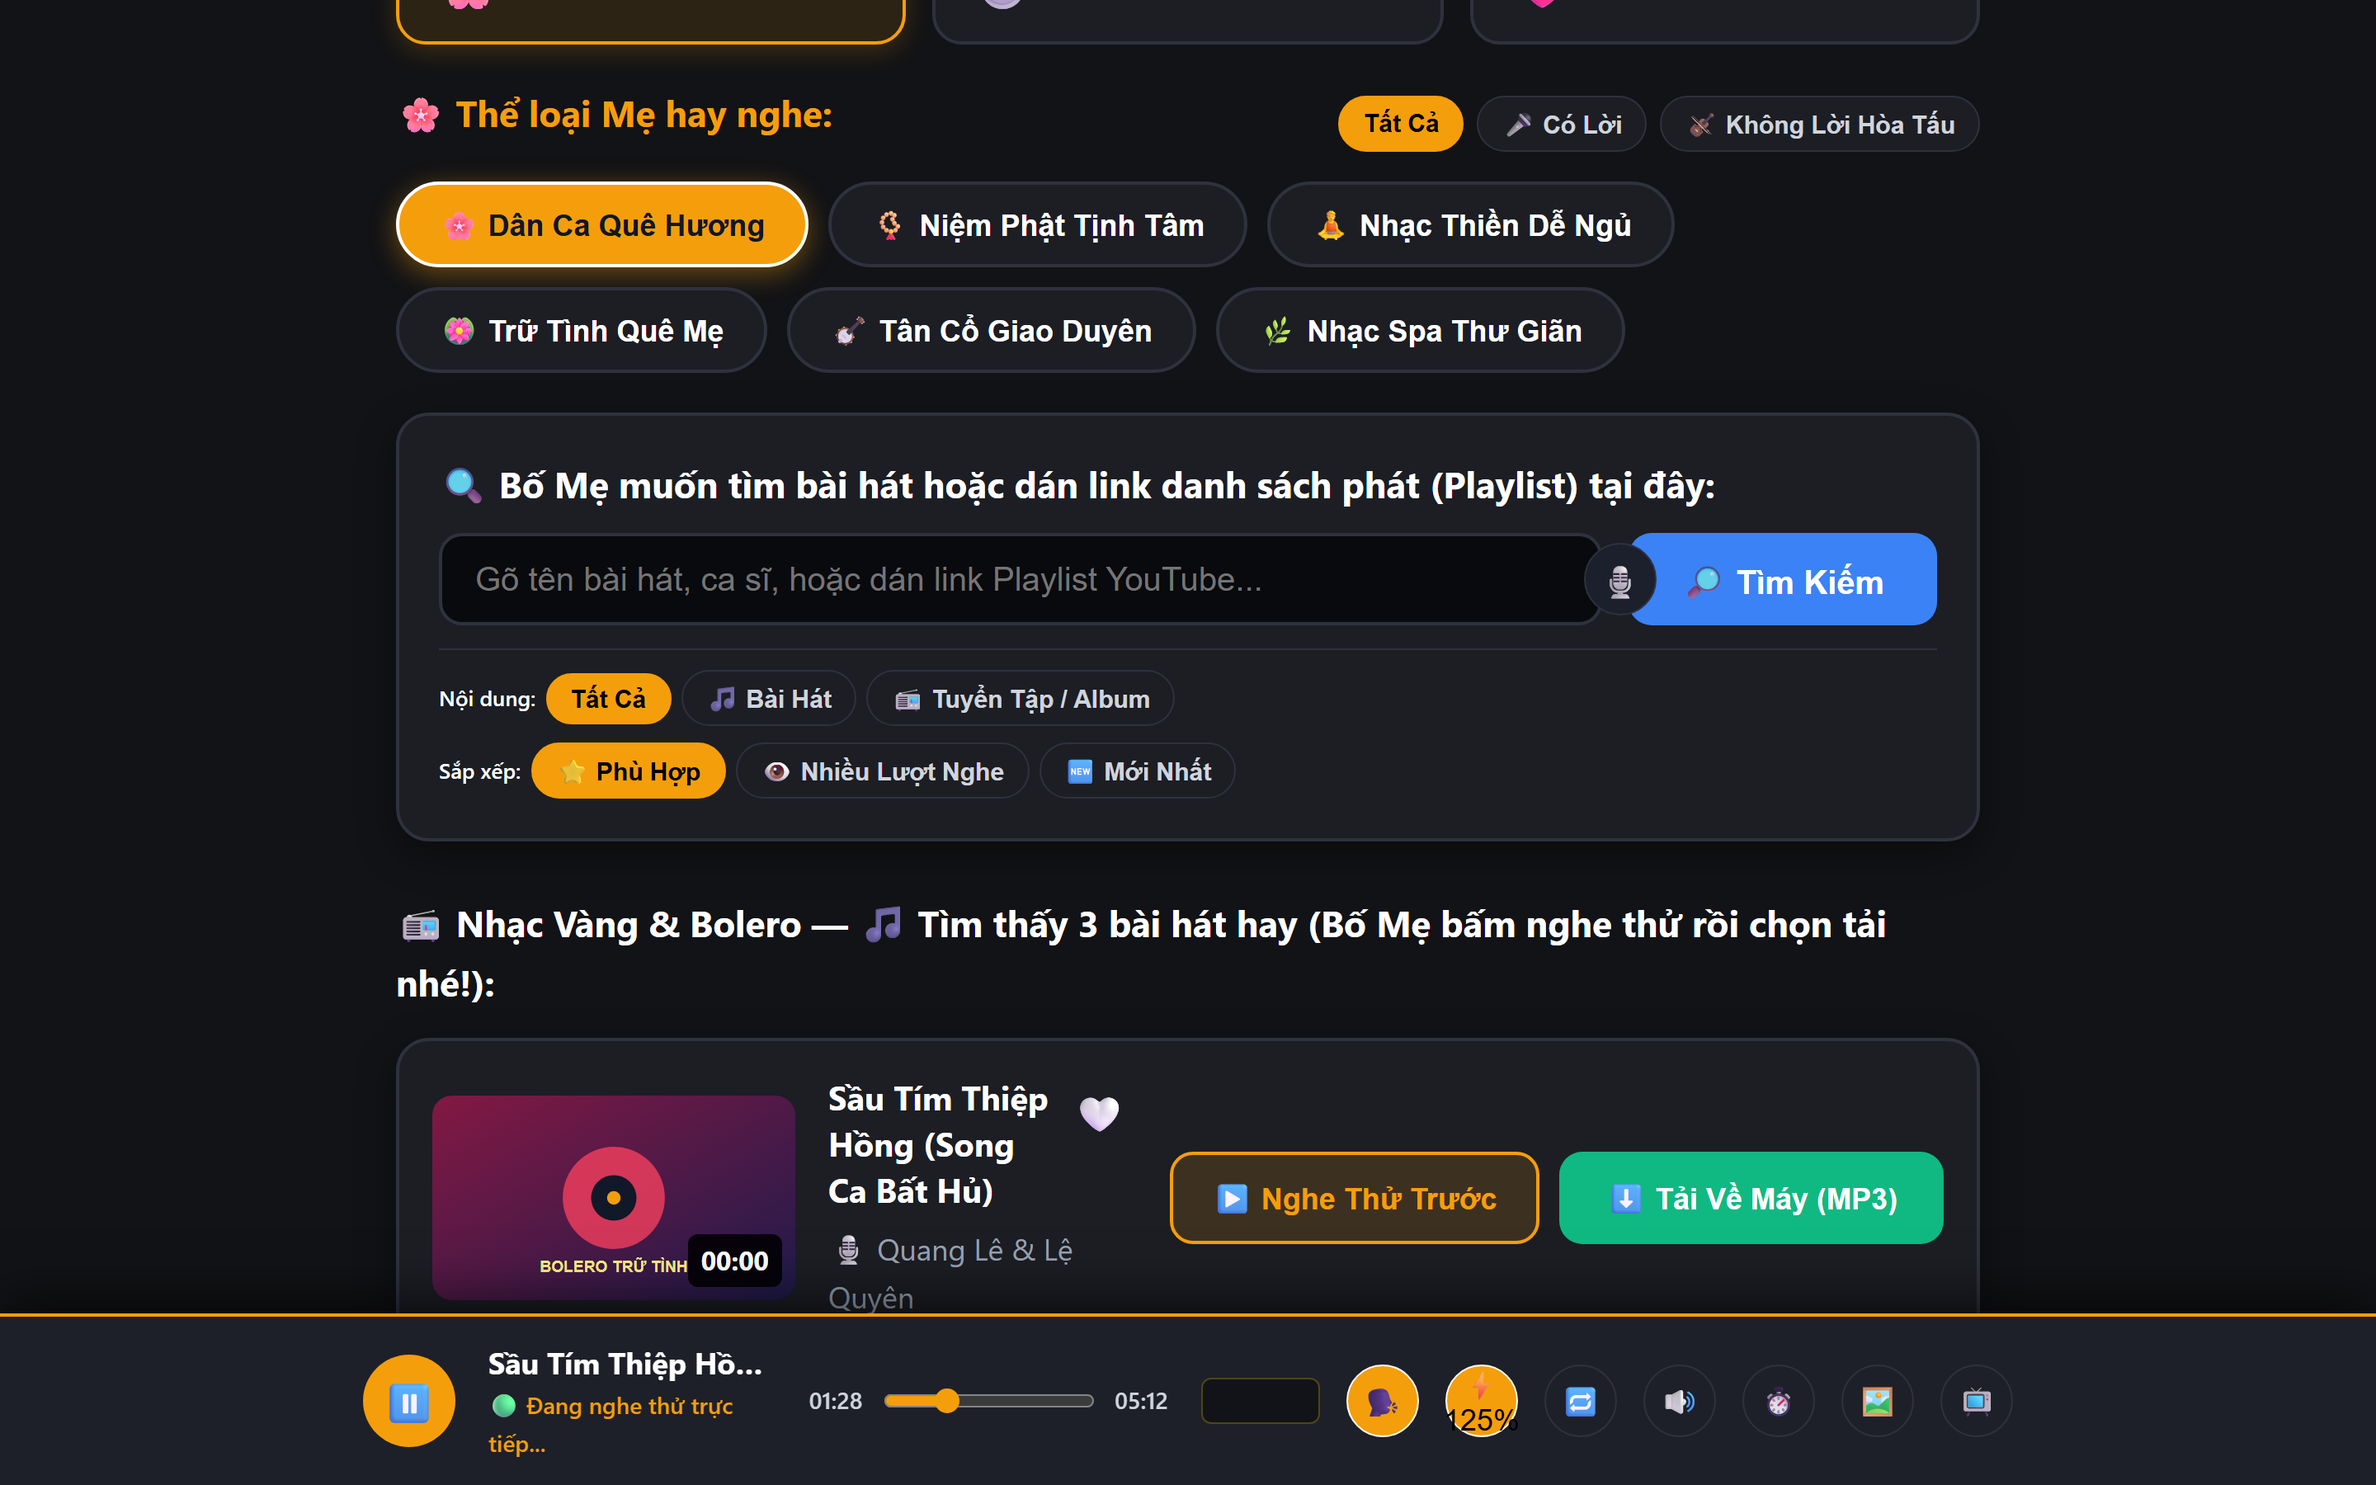
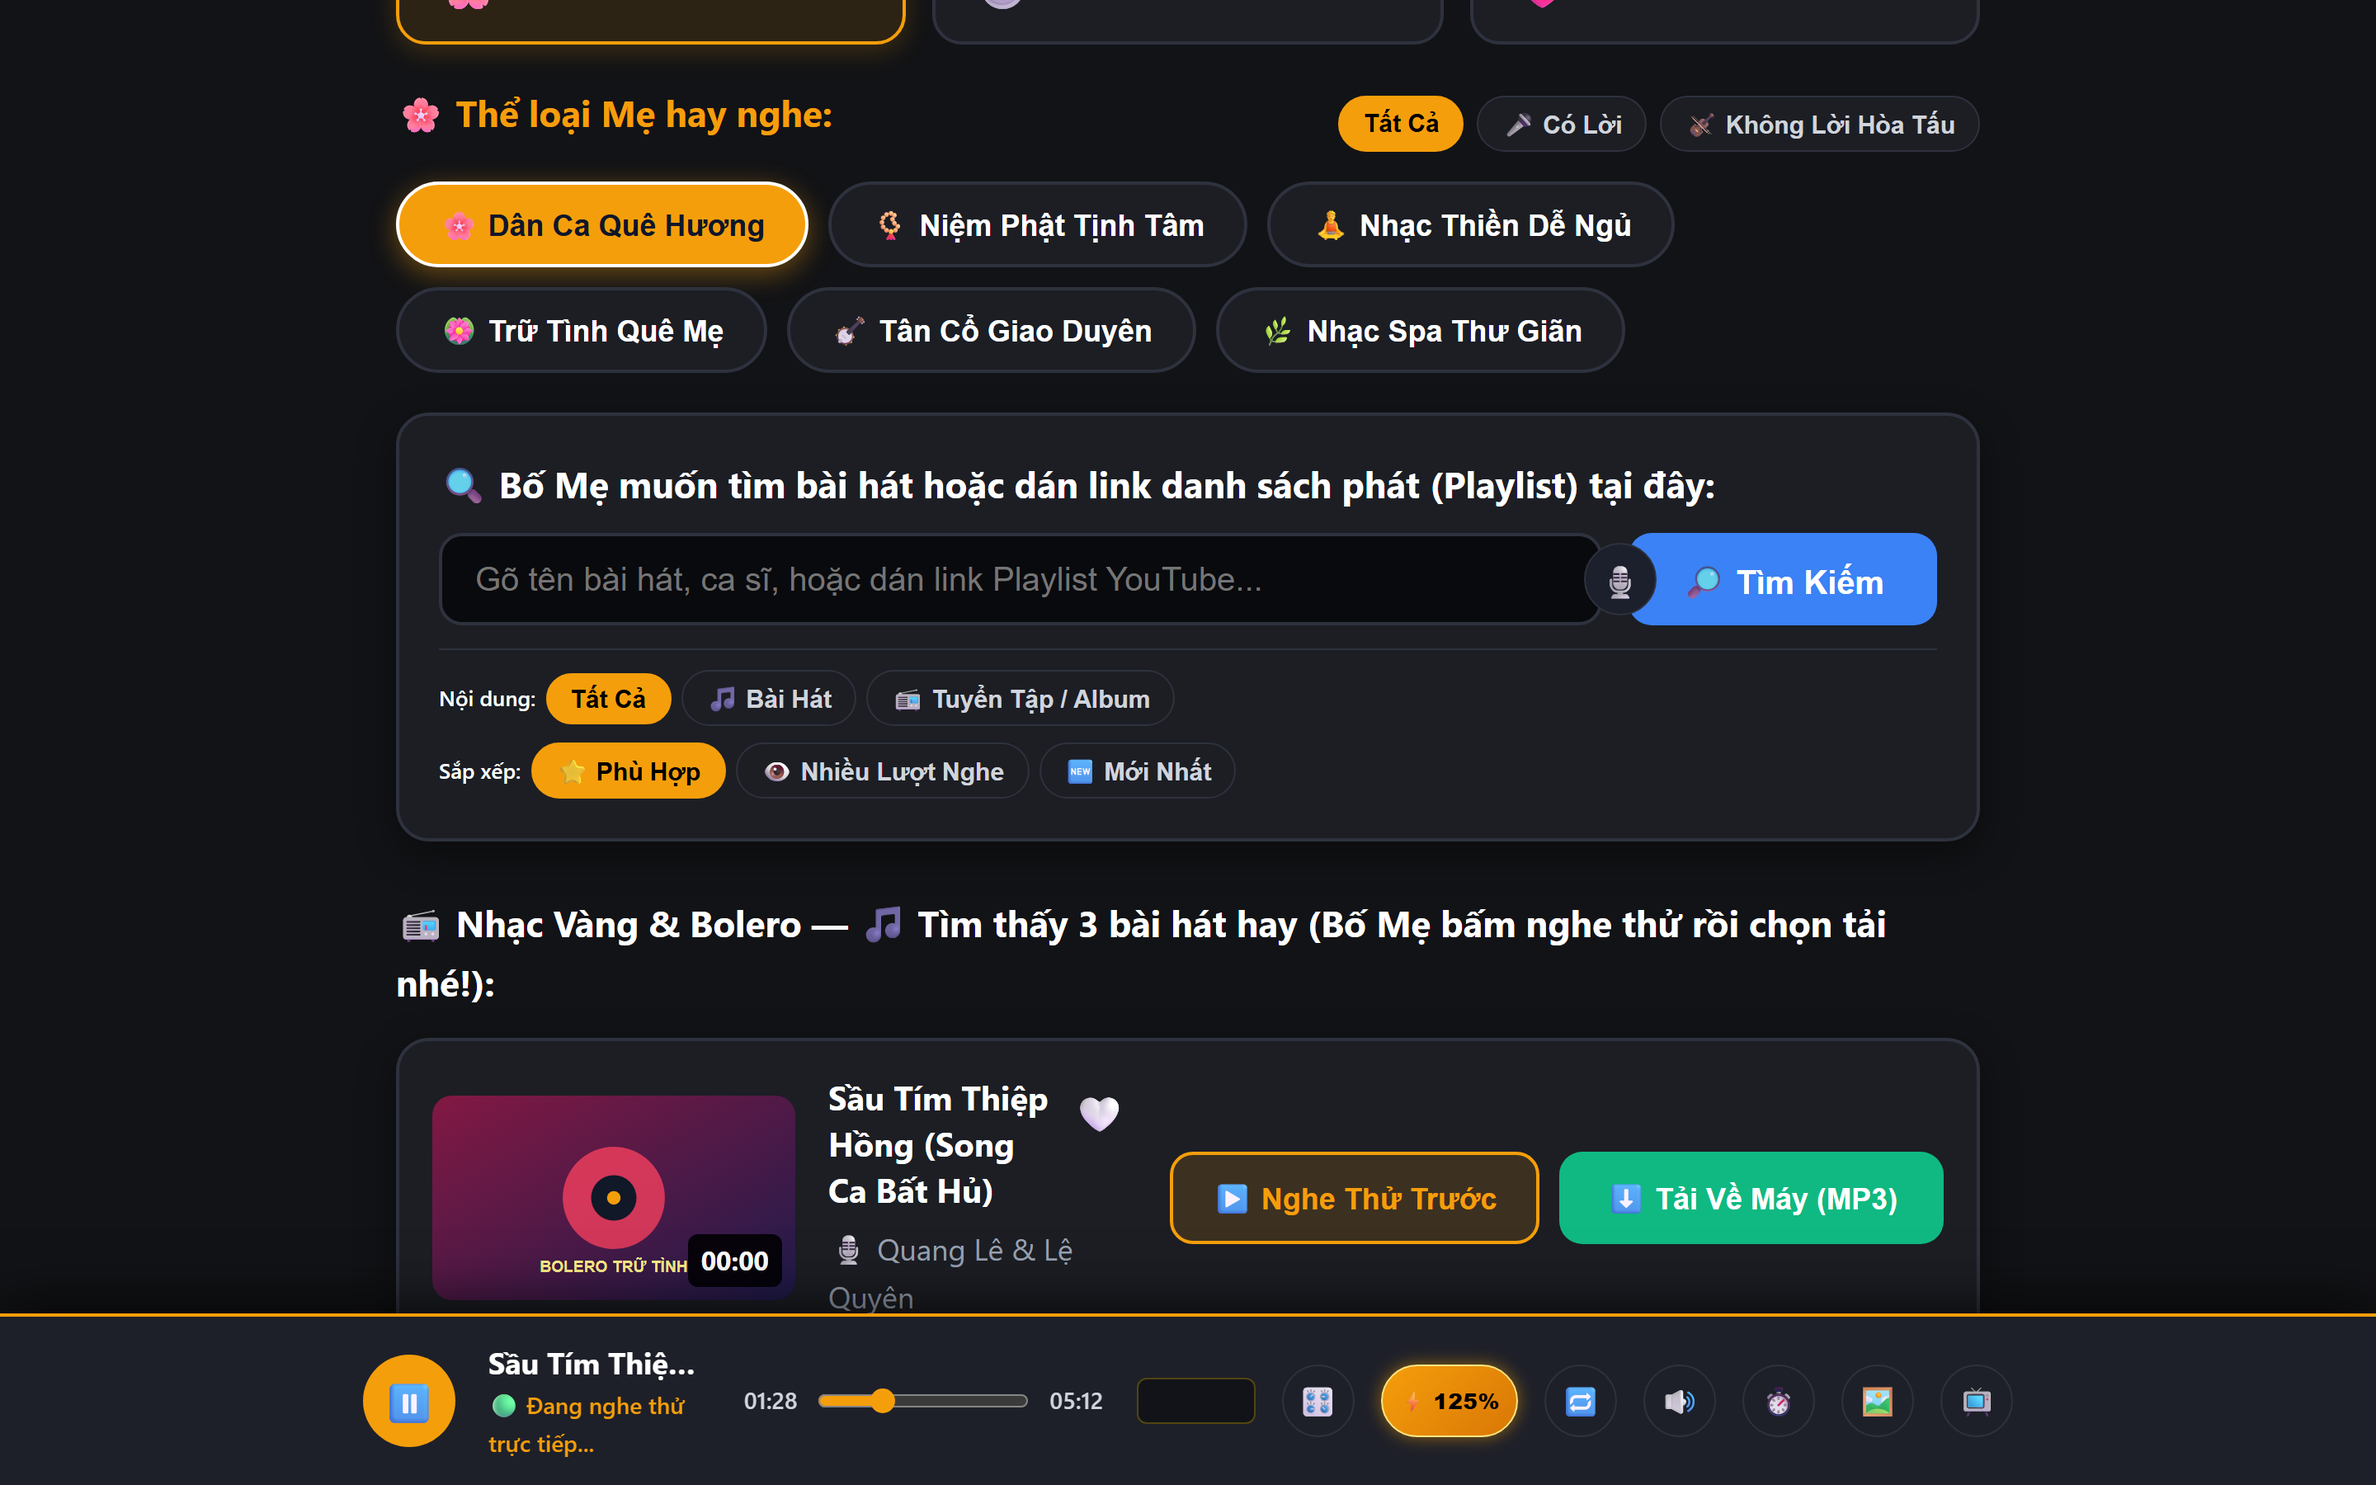
fix(ui): prevent aspect ratio distortion and text overflow on volume boost button (#130)
* fix(ui): prevent aspect ratio distortion and text overflow on volume boost button (Closes #129)

* fix(pwa): bump service worker cache to tuneflow-v2.5.0-alpha for immediate asset invalidation

---------

diff --git a/tests/puppeteer-e2e.test.js b/tests/puppeteer-e2e.test.js
@@ -260,4 +260,87 @@ describe('Gate 2: Headless Browser Puppeteer Real DOM & E2E Validation', () => {
 
     assert.strictEqual(dspResult.boostLevel, 1.25, 'Volume boost tier 1 must be 1.25x (125%)');
   });
+
+  it('should render volume boost button as an elegant capsule pill without text overflow or aspect distortion', async (t) => {
+    if (!page) return t.skip('Chrome executable not available in environment');
+
+    // 1. Test Desktop Viewport
+    await page.setViewport({ width: 1280, height: 800 });
+    const deskMetrics = await page.evaluate(() => {
+      const player = window.previewPlayer;
+      if (!player) return null;
+
+      if (player.playerContainer) {
+        player.playerContainer.classList.add('visible');
+      }
+
+      // Set Boost to 125%
+      player.setBoostPreset(1);
+
+      const btn = document.getElementById('btn-player-boost');
+      if (!btn) return null;
+
+      const rect = btn.getBoundingClientRect();
+      const style = window.getComputedStyle(btn);
+      const isBoosted = btn.classList.contains('boosted');
+      const hasIcon = Boolean(btn.querySelector('.boost-icon'));
+      const hasPct = Boolean(btn.querySelector('.boost-pct'));
+      const text = btn.textContent;
+      const scrollWidth = btn.scrollWidth;
+      const clientWidth = btn.clientWidth;
+      const borderRadius = style.borderRadius;
+
+      return {
+        isBoosted,
+        hasIcon,
+        hasPct,
+        text,
+        width: rect.width,
+        height: rect.height,
+        scrollWidth,
+        clientWidth,
+        borderRadius,
+        whiteSpace: style.whiteSpace
+      };
+    });
+
+    assert.ok(deskMetrics, 'Desktop boost button metrics must be retrieved');
+    assert.strictEqual(deskMetrics.isBoosted, true, 'Boost button must have "boosted" class');
+    assert.strictEqual(deskMetrics.hasIcon, true, 'Boost button must render .boost-icon element');
+    assert.strictEqual(deskMetrics.hasPct, true, 'Boost button must render .boost-pct element');
+    assert.ok(deskMetrics.text.includes('125%'), 'Boost button text must include 125%');
+    assert.ok(deskMetrics.width >= 66, `Boost button width (${deskMetrics.width}px) must be >= 66px capsule pill`);
+    assert.strictEqual(deskMetrics.height, 44, 'Boost button height must be 44px');
+    assert.strictEqual(Math.round(parseFloat(deskMetrics.borderRadius)), 22, 'Capsule pill border radius must be 22px');
+    assert.strictEqual(deskMetrics.whiteSpace, 'nowrap', 'Text must not wrap inside capsule pill');
+    assert.ok(deskMetrics.scrollWidth <= deskMetrics.clientWidth + 1, 'Content must not overflow capsule boundaries');
+
+    // 2. Test Mobile Viewport (max-width 768px)
+    await page.setViewport({ width: 390, height: 844 });
+    await new Promise((resolve) => setTimeout(resolve, 100));
+    const mobMetrics = await page.evaluate(() => {
+      const btn = document.getElementById('btn-player-boost');
+      if (!btn) return null;
+      const rect = btn.getBoundingClientRect();
+      const style = window.getComputedStyle(btn);
+      return {
+        width: rect.width,
+        height: rect.height,
+        borderRadius: style.borderRadius,
+        scrollWidth: btn.scrollWidth,
+        clientWidth: btn.clientWidth
+      };
+    });
+
+    assert.ok(mobMetrics, 'Mobile boost button metrics must be retrieved');
+    assert.ok(mobMetrics.width >= 58, `Mobile boost button width (${mobMetrics.width}px) must be >= 58px`);
+    assert.strictEqual(Math.round(mobMetrics.height), 42, 'Mobile boost button height must be 42px');
+    assert.strictEqual(Math.round(parseFloat(mobMetrics.borderRadius)), 21, 'Mobile border radius must be 21px');
+    assert.ok(mobMetrics.scrollWidth <= mobMetrics.clientWidth + 1, 'Mobile content must not overflow boundaries');
+
+    // Reset back to default boost
+    await page.evaluate(() => {
+      window.previewPlayer.setBoostPreset(0);
+    });
+  });
 });

diff --git a/public/js/player.js b/public/js/player.js
@@ -338,11 +338,12 @@ class PreviewPlayer {
     }
   }
 
-  cycleEq() {
+  setEqPreset(presetKey) {
+    const idx = this.eqPresets.indexOf(presetKey);
+    if (idx === -1) return;
     this.initWebAudio(true);
     this.resumeAudioContext();
-    this.eqIndex = (this.eqIndex + 1) % this.eqPresets.length;
-    const presetKey = this.eqPresets[this.eqIndex];
+    this.eqIndex = idx;
     const info = this.getEqInfo(presetKey);
     this.applyEq();
 
@@ -352,16 +353,27 @@ class PreviewPlayer {
       this.btnEq.title = `${isEn ? 'Equalizer' : 'Bộ chỉnh âm'}: ${info.name} (${info.desc})`;
       this.btnEq.classList.toggle('active', presetKey !== 'standard');
     }
+  }
 
+  cycleEq() {
+    this.initWebAudio(true);
+    this.resumeAudioContext();
+    this.eqIndex = (this.eqIndex + 1) % this.eqPresets.length;
+    const presetKey = this.eqPresets[this.eqIndex];
+    this.setEqPreset(presetKey);
+
+    const info = this.getEqInfo(presetKey);
+    const isEn = window.TuneFlowI18n && window.TuneFlowI18n.getLanguage() === 'en';
     if (typeof window.showToast === 'function') {
       window.showToast(`${info.icon} ${isEn ? 'Equalizer' : 'Chỉnh âm'}: ${info.name} — ${info.desc}`, 'info');
     }
   }
 
-  cycleBoost() {
+  setBoostPreset(idx) {
+    if (idx < 0 || idx >= this.boostLevels.length) return;
     this.initWebAudio(true);
     this.resumeAudioContext();
-    this.boostIndex = (this.boostIndex + 1) % this.boostLevels.length;
+    this.boostIndex = idx;
     const level = this.boostLevels[this.boostIndex];
     const pct = Math.round(level * 100);
 
@@ -373,9 +385,21 @@ class PreviewPlayer {
     if (this.btnBoost) {
       this.btnBoost.classList.toggle('boosted', level > 1.0);
       this.btnBoost.title = `${isEn ? 'Volume Boost' : 'Khuếch đại âm lượng'}: ${pct}% (${isEn ? 'Click to change' : 'Bấm để đổi'})`;
-      this.btnBoost.textContent = level > 1.0 ? `⚡${pct}%` : '⚡';
+      this.btnBoost.innerHTML = level > 1.0
+        ? `<span class="boost-icon">⚡</span><span class="boost-pct">${pct}%</span>`
+        : '⚡';
     }
+  }
 
+  cycleBoost() {
+    this.initWebAudio(true);
+    this.resumeAudioContext();
+    const nextIdx = (this.boostIndex + 1) % this.boostLevels.length;
+    this.setBoostPreset(nextIdx);
+
+    const level = this.boostLevels[this.boostIndex];
+    const pct = Math.round(level * 100);
+    const isEn = window.TuneFlowI18n && window.TuneFlowI18n.getLanguage() === 'en';
     if (typeof window.showToast === 'function') {
       const antiClip = level > 1.0 ? (isEn ? ' (Anti-clipping active)' : ' (Đã bật chống rè loa)') : '';
       window.showToast(`⚡ ${isEn ? 'Volume Boost' : 'Khuếch đại âm thanh'}: ${pct}%${antiClip}`, 'info');

diff --git a/scripts/capture_screenshots.js b/scripts/capture_screenshots.js
@@ -81,13 +81,17 @@ async function capture() {
           window.previewPlayer.progressBar.value = 28;
         }
         window.previewPlayer.updatePlayPauseIcon();
-        if (window.previewPlayer.btnEq) {
+        if (window.previewPlayer.setEqPreset) {
+          window.previewPlayer.setEqPreset('vocal');
+        } else if (window.previewPlayer.btnEq) {
           window.previewPlayer.btnEq.textContent = '🗣';
           window.previewPlayer.btnEq.classList.add('active');
         }
-        if (window.previewPlayer.btnBoost) {
-          window.previewPlayer.btnBoost.textContent = '⚡ 125%';
-          window.previewPlayer.btnBoost.classList.add('active');
+        if (window.previewPlayer.setBoostPreset) {
+          window.previewPlayer.setBoostPreset(1);
+        } else if (window.previewPlayer.btnBoost) {
+          window.previewPlayer.btnBoost.innerHTML = '<span class="boost-icon">⚡</span><span class="boost-pct">125%</span>';
+          window.previewPlayer.btnBoost.classList.add('boosted');
         }
       }
       window.scrollBy(0, 220);
@@ -125,6 +129,12 @@ async function capture() {
           window.previewPlayer.progressBar.value = 28;
         }
         window.previewPlayer.updatePlayPauseIcon();
+        if (window.previewPlayer.setEqPreset) {
+          window.previewPlayer.setEqPreset('vocal');
+        }
+        if (window.previewPlayer.setBoostPreset) {
+          window.previewPlayer.setBoostPreset(1);
+        }
       }
       const grid = document.getElementById('results-grid');
       if (grid) {

diff --git a/public/css/silver-melody.css b/public/css/silver-melody.css
@@ -1392,10 +1392,36 @@ body {
 }
 
 .player-ctrl-btn.boosted {
-  background: #ffaa00;
-  color: #000;
+  background: linear-gradient(135deg, #f59e0b, #d97706);
+  color: #000000;
   border-color: #ffe680;
-  box-shadow: 0 0 10px rgba(255, 170, 0, 0.6);
+  box-shadow: 0 0 10px rgba(255, 170, 0, 0.5);
+  width: auto;
+  min-width: 66px;
+  height: 44px;
+  max-height: 44px;
+  border-radius: 22px;
+  padding: 0 10px;
+  font-size: 13px;
+  font-weight: 800;
+  white-space: nowrap;
+  display: inline-flex;
+  align-items: center;
+  justify-content: center;
+  gap: 3px;
+  letter-spacing: 0.3px;
+  line-height: 1;
+}
+
+.player-ctrl-btn.boosted .boost-icon {
+  font-size: 13px;
+  line-height: 1;
+}
+
+.player-ctrl-btn.boosted .boost-pct {
+  font-size: 13px;
+  line-height: 1;
+  font-weight: 800;
 }
 
 .player-ctrl-btn.pip-active {
@@ -1853,6 +1879,20 @@ body.tv-mode .player-title {
     height: 42px;
     font-size: 18px;
     flex-shrink: 0;
+  }
+
+  .player-ctrl-btn.boosted {
+    min-width: 58px;
+    height: 42px;
+    max-height: 42px;
+    border-radius: 21px;
+    padding: 0 8px;
+    font-size: 12px;
+  }
+
+  .player-ctrl-btn.boosted .boost-icon,
+  .player-ctrl-btn.boosted .boost-pct {
+    font-size: 12px;
   }
 
   /* Song Card on Mobile */

diff --git a/public/sw.js b/public/sw.js
@@ -3,7 +3,7 @@
  * Strategy: Cache-first for UI shell & static assets; Network-only for /api/ streaming and downloads.
  */
 
-const CACHE_NAME = 'tuneflow-v2.4.3';
+const CACHE_NAME = 'tuneflow-v2.5.0-alpha';
 const STATIC_ASSETS = [
   '/',
   '/index.html',

diff --git a/CHANGELOG.md b/CHANGELOG.md
@@ -40,6 +40,12 @@ Mọi thay đổi đáng chú ý của dự án **TuneFlow** sẽ được ghi c
   - Ban hành `docs/superpowers/plans/2026-09-11-superpowers-tuneflow-mandatory-steps.md` quy định 8 bước bắt buộc và cơ chế chống stale docs.
 
 ### Đã Sửa (Fixed)
+- **Chống Vỡ Tỉ Lệ & Tràn Chữ Cho Nút Khuếch Đại Âm Lượng Dạng Viên Thuốc (Volume Boost Capsule Pill Geometry & Zero Text Overflow - Issue #129)**:
+  - Khắc phục lỗi vỡ khung tròn 1:1 khi bật chế độ khuếch đại âm thanh 125% ([Issue #129](https://github.com/tamld/tuneflow/issues/129)): nút chuyển sang hình dáng viên thuốc (capsule pill) thanh lịch (`min-width: 66px`, `height: 44px`, `max-height: 44px`, `border-radius: 22px`, `padding: 0 10px`, `font-size: 13px`, `font-weight: 800`, `white-space: nowrap`) trên máy tính để bàn, và co giãn mượt mà trên thiết bị di động (`min-width: 58px`, `height: 42px`, `max-height: 42px`, `border-radius: 21px`, `padding: 0 8px`, `font-size: 12px`).
+  - Bổ sung cấu trúc HTML tách biệt `<span class="boost-icon">⚡</span><span class="boost-pct">${pct}%</span>` và khóa `line-height: 1` loại bỏ triệt để hiện tượng co giật subpixel do phông chữ biểu tượng cảm xúc gây ra.
+  - Cung cấp hàm điều khiển lập trình `setBoostPreset(idx)` và `setEqPreset(presetKey)` trong `public/js/player.js` giúp đồng bộ hóa trực tiếp trạng thái phát và tái sử dụng cho các kịch bản chụp ảnh màn hình / kiểm thử tự động.
+  - Cập nhật bộ ảnh chụp giao diện `desktop-player.png` và `mobile-pwa.png` phản ánh chính xác thiết kế viên thuốc vàng hổ phách sáng bóng.
+  - Bổ sung bài kiểm thử E2E tự động trong `tests/puppeteer-e2e.test.js` kiểm định kích thước hình học, viền bo tròn và chống tràn văn bản tuyệt đối trên cả hai chế độ màn hình.
 - **Bản Địa Hóa Tiếng Anh Toàn Diện 100% & Gia Cố Luồng Xử Lý Web Audio DSP (Complete 100% English Localization & Web Audio Pipeline Hardening - Issue #126)**:
   - Bản địa hóa toàn bộ các thành phần còn sót lại trong giao diện khi chuyển sang tiếng Anh ([Issue #126](https://github.com/tamld/tuneflow/issues/126)): nút Cài App (`Install App`), Chế độ TV (`TV Mode`), Quản trị (`Admin`), trạng thái khách (`Guest: mm:ss`, `Guest: Disconnected`), nút Hàng Đợi (`Queue (N)`), nhãn đổi mật khẩu, công cụ chỉnh cỡ chữ, nhãn tác vụ danh sách phát và các thông báo nổi (Toasts).
   - Cung cấp hàm `window.setLastSearchResults()` và cập nhật `window.reRenderActiveCards()` đồng bộ động cả tiêu đề kết quả tìm kiếm và các thẻ bài hát khi đổi ngôn ngữ.
